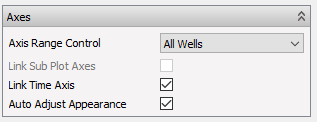
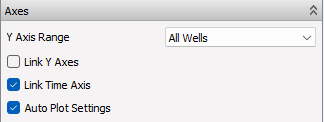
Update summary axis control

diff --git a/content/plot-window/SummaryPlots.md b/content/plot-window/SummaryPlots.md
@@ -84,10 +84,10 @@ ResInsight may ease comparison of multiple summary curves by selecting a plot in
 
 The different options are:
 
-- *Axis Range Control*: Setting axes consideration span to either individual, all subplots, all wells, all regions, or all realizations.
-- *Link Sub Plot Axes*: When checked, the axes of all subplots will be treated to obtain plots with identical axes.
+- *Y Axis Range*: Defines the data source for Y Axis range to either individual, all subplots, all wells, all regions, or all realizations.
+- *Link Y Axes*: When checked, the axes of all subplots will be treated to obtain plots with identical axes.
 - *Link Time Axis*: When checked, the time axes of all subplots will identical.
-- *Auto Adjust Appearance*: When checked, ResInsight creates axes with titles, ranges, tickmarks, and units for best possible appearance.
+- *Auto Plot Settings*: When checked, ResInsight creates axes with titles, ranges, tickmarks, and units for best possible appearance.
 
 
 ### Plot Mouse Interaction
